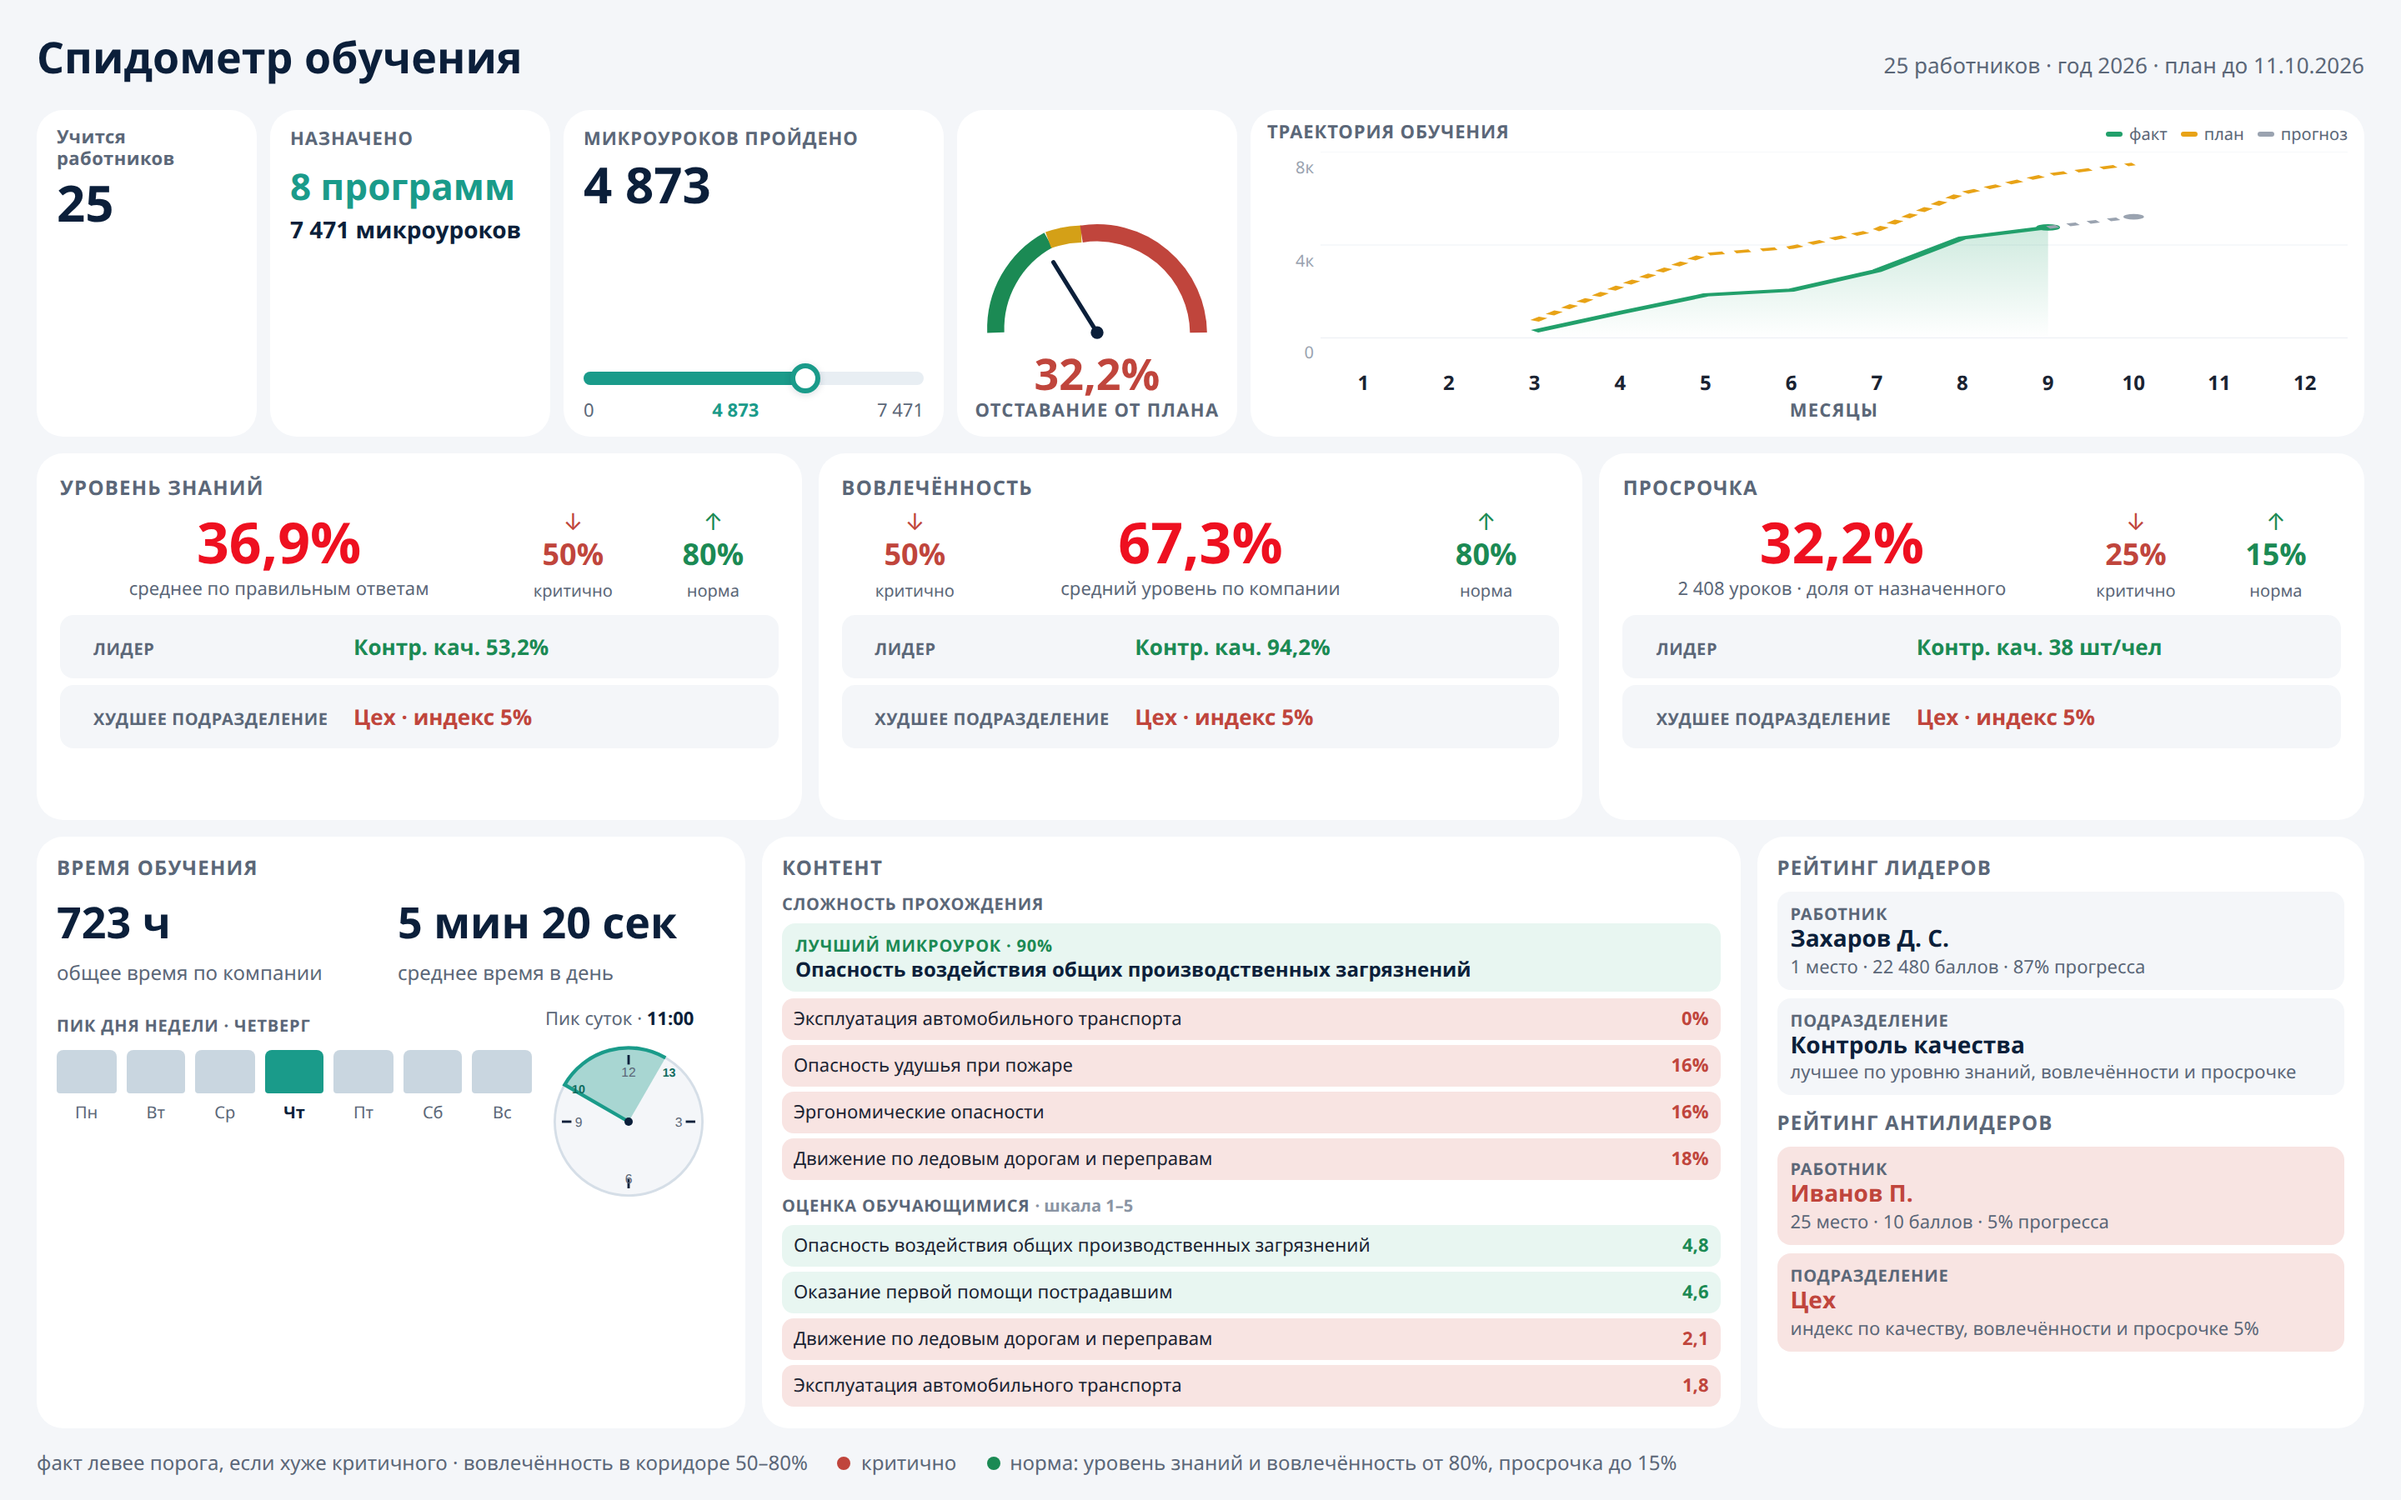
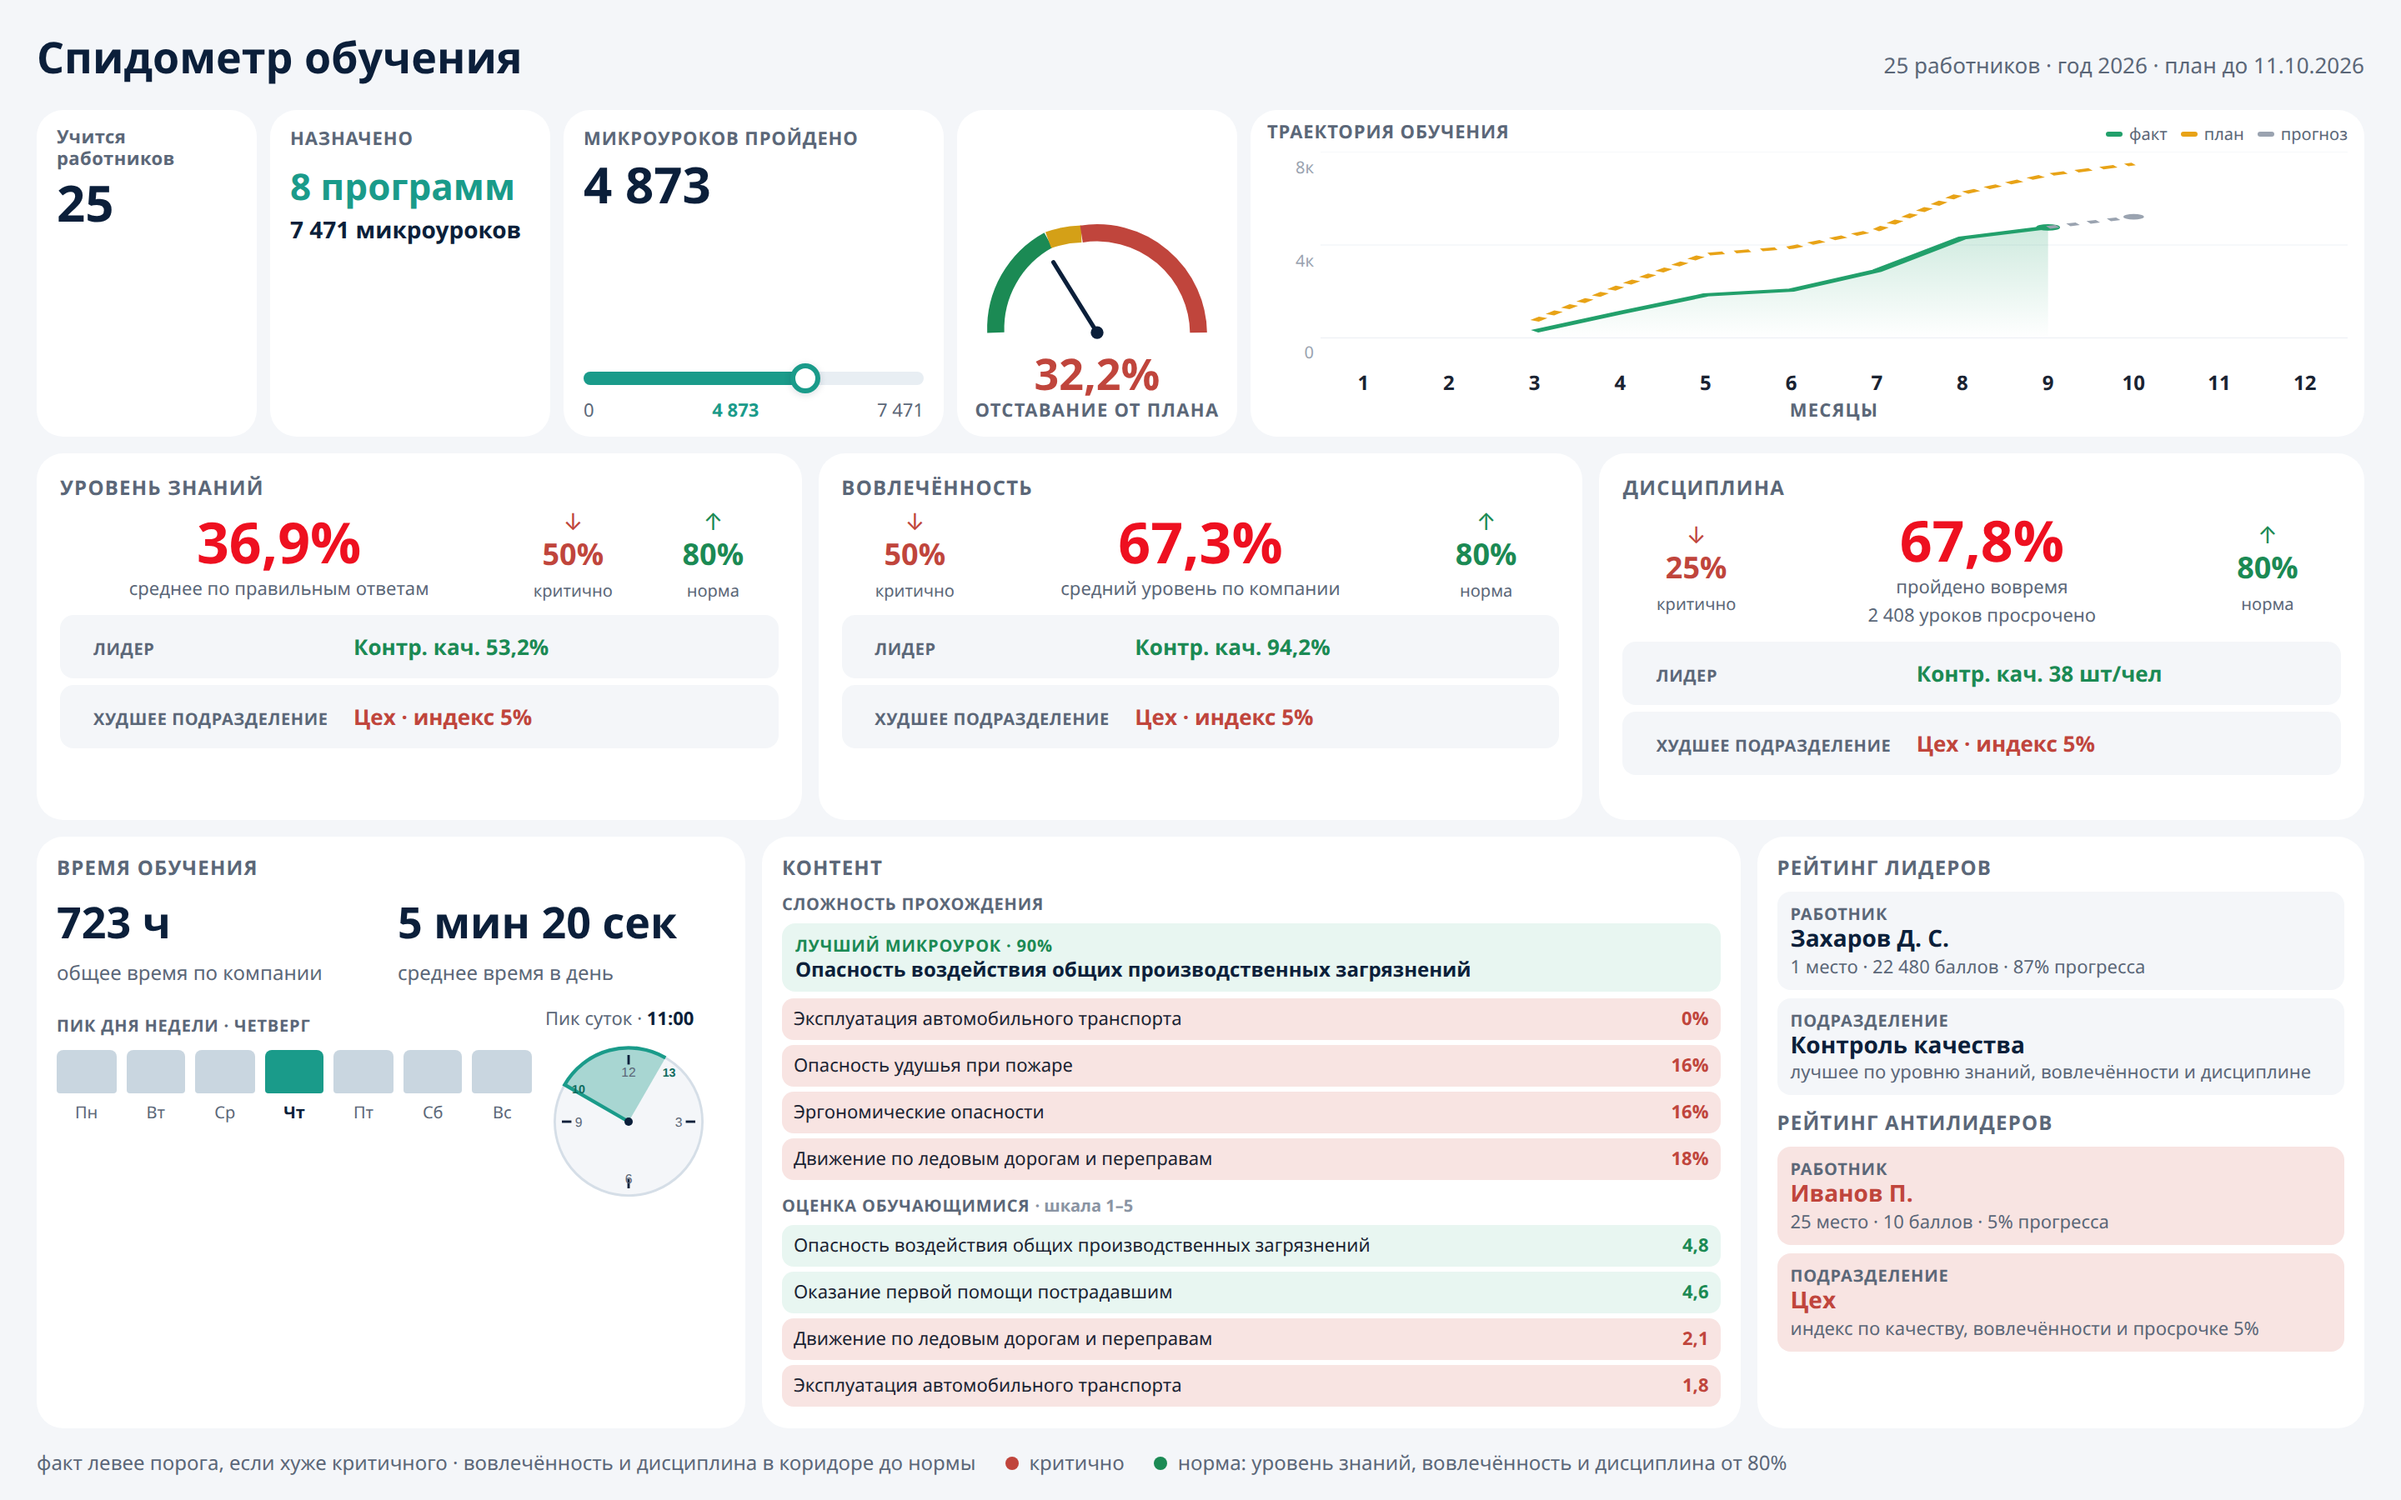
Rename the overdue card to discipline with 67.8% on time.
Show 2,408 overdue lessons in small type; keep critical at 25% and the norm at 80%.

Changed region(s): [[0.6875, 0.3111, 0.9062, 0.4978], [0.25, 0.9644, 0.75, 0.9956], [0.9375, 0.3422, 0.9688, 0.4044]]

diff --git a/issledovaniya/vizualy/spidometr-obucheniya.html b/issledovaniya/vizualy/spidometr-obucheniya.html
@@ -272,20 +272,21 @@
         </div>
       </div>
       <div class="card metric">
-        <h2>Просрочка</h2>
-        <div class="tri left-fact">
-          <div class="mid red">
-            <div class="big">32,2%</div>
-            <div class="hint">2 408 уроков · доля от назначенного</div>
-          </div>
+        <h2>Дисциплина</h2>
+        <div class="tri">
           <div class="side bad">
             <div class="arr">↓</div>
             <div class="val">25%</div>
             <div class="cap">критично</div>
           </div>
+          <div class="mid red">
+            <div class="big">67,8%</div>
+            <div class="hint">пройдено вовремя</div>
+            <div class="hint" style="margin-top:2px;font-size:11px">2 408 уроков просрочено</div>
+          </div>
           <div class="side good">
             <div class="arr">↑</div>
-            <div class="val">15%</div>
+            <div class="val">80%</div>
             <div class="cap">норма</div>
           </div>
         </div>
@@ -371,7 +372,7 @@
           <div class="box">
             <div class="l">Подразделение</div>
             <div class="n">Контроль качества</div>
-            <div class="d">лучшее по уровню знаний, вовлечённости и просрочке</div>
+            <div class="d">лучшее по уровню знаний, вовлечённости и дисциплине</div>
           </div>
         </div>
         <h2 class="anti-h">Рейтинг антилидеров</h2>
@@ -391,9 +392,9 @@
     </div>
 
     <div class="legend">
-      <span>факт левее порога, если хуже критичного · вовлечённость в коридоре 50–80%</span>
+      <span>факт левее порога, если хуже критичного · вовлечённость и дисциплина в коридоре до нормы</span>
       <span><i class="dot" style="background:#C0453C"></i>критично</span>
-      <span><i class="dot" style="background:#1B8A54"></i>норма: уровень знаний и вовлечённость от 80%, просрочка до 15%</span>
+      <span><i class="dot" style="background:#1B8A54"></i>норма: уровень знаний, вовлечённость и дисциплина от 80%</span>
     </div>
   </div>
 </body>
